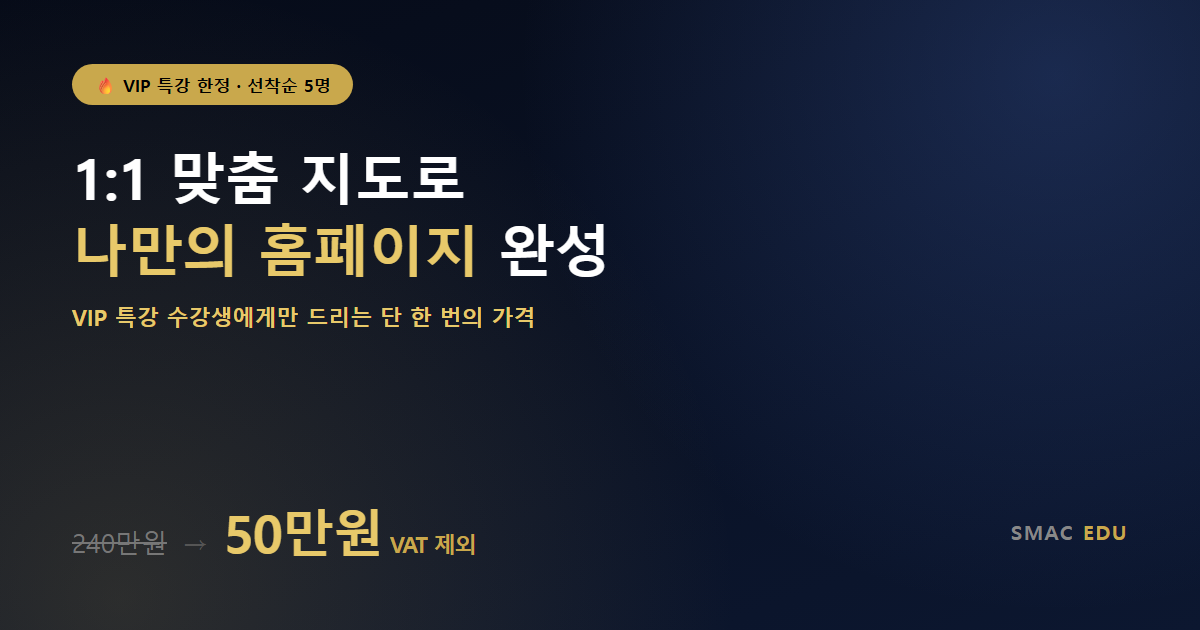
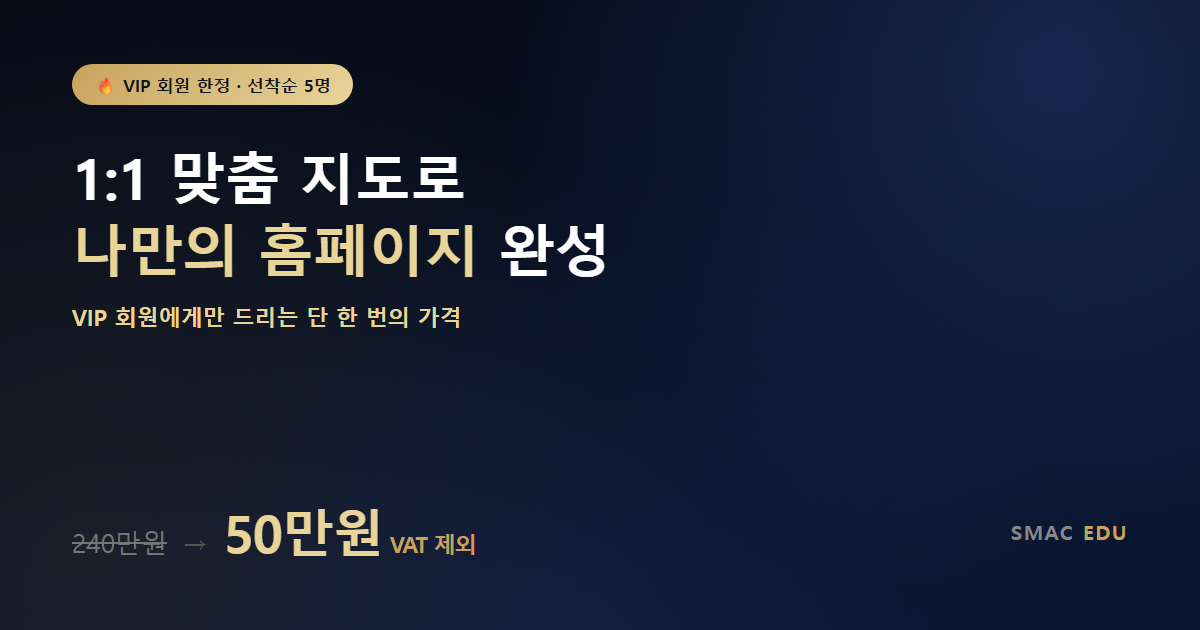
Polish VIP page: richer gold palette, VIP-membership framing, clean wraps
- Swap the bright gold for a more muted, antique gold tone (foil
  gradient on emphasized text) for a more premium feel.
- Change exclusivity framing from "VIP 특강 수강생" to "VIP 회원" across
  hero, notice bar, FAQ, and deadline section (and the OG banner).
- Add word-break: keep-all site-wide so Korean text never breaks
  mid-word, and rework the worry-card copy/icons (bordered circle
  badges instead of bare emoji) so each card reads as two clean lines.

diff --git a/vip-1on1-landing.html b/vip-1on1-landing.html
@@ -4,49 +4,53 @@
   <meta charset="UTF-8" />
   <meta name="viewport" content="width=device-width, initial-scale=1.0" />
   <title>VIP 1:1 지도 — 나만의 홈페이지 만들기 | SMAC EDU</title>
-  <meta name="description" content="VIP 특강 수강생 한정, 선착순 5명. 8시간 4회 세션 + 완성될 때까지 무제한 1:1 지도로 홈페이지·랜딩페이지 4개·업무 자동화·앱까지 완성합니다." />
+  <meta name="description" content="VIP 회원 한정, 선착순 5명. 8시간 4회 세션 + 완성될 때까지 무제한 1:1 지도로 홈페이지·랜딩페이지 4개·업무 자동화·앱까지 완성합니다." />
   <meta property="og:type" content="website" />
   <meta property="og:url" content="https://www.smacedu.kr/vip-1on1-landing" />
   <meta property="og:title" content="VIP 1:1 지도 — 나만의 홈페이지 만들기 | SMAC EDU" />
-  <meta property="og:description" content="VIP 특강 수강생 한정, 선착순 5명. 8시간 4회 세션 + 완성될 때까지 무제한 1:1 지도로 홈페이지·랜딩페이지 4개·업무 자동화·앱까지 완성합니다." />
+  <meta property="og:description" content="VIP 회원 한정, 선착순 5명. 8시간 4회 세션 + 완성될 때까지 무제한 1:1 지도로 홈페이지·랜딩페이지 4개·업무 자동화·앱까지 완성합니다." />
   <meta property="og:image" content="https://www.smacedu.kr/images/vip-1on1-og.png" />
   <meta property="og:image:width" content="1200" />
   <meta property="og:image:height" content="630" />
   <meta name="twitter:card" content="summary_large_image" />
   <meta name="twitter:title" content="VIP 1:1 지도 — 나만의 홈페이지 만들기 | SMAC EDU" />
-  <meta name="twitter:description" content="VIP 특강 수강생 한정, 선착순 5명. 1:1 맞춤 지도로 될 때까지 완성합니다." />
+  <meta name="twitter:description" content="VIP 회원 한정, 선착순 5명. 1:1 맞춤 지도로 될 때까지 완성합니다." />
   <meta name="twitter:image" content="https://www.smacedu.kr/images/vip-1on1-og.png" />
   <style>
     /* ─── Reset & Base ─────────────────────────────── */
     *, *::before, *::after { box-sizing: border-box; margin: 0; padding: 0; }
     :root {
-      --bg:       #060b18;
-      --bg2:      #0c1730;
-      --bg3:      #112048;
-      --border:   rgba(201,168,76,.18);
-      --gold:     #c9a84c;
-      --gold-lt:  #f0d384;
-      --text:     #eef1f7;
-      --muted:    #8d96ab;
-      --red:      #e0667a;
-      --radius:   14px;
+      --bg:        #050a16;
+      --bg2:       #0a1530;
+      --bg3:       #0e1c3e;
+      --border:    rgba(201,168,92,.16);
+      --gold-deep: #8a6d23;
+      --gold:      #c6a35c;
+      --gold-lt:   #e9d49a;
+      --text:      #eef1f7;
+      --muted:     #8d96ab;
+      --red:       #e0667a;
+      --radius:    14px;
     }
     html { scroll-behavior: smooth; }
     body {
       background:
-        radial-gradient(circle at 12% -5%, rgba(201,168,76,.12) 0%, transparent 42%),
-        radial-gradient(circle at 92% 8%, rgba(72,108,194,.18) 0%, transparent 45%),
-        linear-gradient(180deg, #060b18 0%, #0a1226 60%, #060b18 100%);
+        radial-gradient(circle at 14% -8%, rgba(201,168,92,.09) 0%, transparent 40%),
+        radial-gradient(circle at 90% 6%, rgba(58,92,180,.28) 0%, transparent 48%),
+        radial-gradient(circle at 50% 110%, rgba(40,70,150,.18) 0%, transparent 55%),
+        linear-gradient(180deg, #050a16 0%, #081230 55%, #050a16 100%);
       color: var(--text);
       font-family: 'Apple SD Gothic Neo', 'Noto Sans KR', sans-serif;
       line-height: 1.7;
       font-size: 16px;
+      word-break: keep-all;
+      overflow-wrap: break-word;
     }
     a { color: inherit; text-decoration: none; }
     img { max-width: 100%; border-radius: var(--radius); }
 
     /* ─── Utility ──────────────────────────────────── */
-    .top-bar { height: 3px; background: linear-gradient(90deg, transparent, var(--gold), var(--gold-lt), var(--gold), transparent); }
+    .top-bar { height: 3px; background: linear-gradient(90deg, transparent, var(--gold-deep), var(--gold-lt), var(--gold-deep), transparent); }
     .container { max-width: 860px; margin: 0 auto; padding: 0 24px; }
     .tag {
       display: inline-block;
@@ -55,16 +59,22 @@
       letter-spacing: .12em;
       text-transform: uppercase;
       color: var(--gold-lt);
-      border: 1px solid rgba(201,168,76,.5);
-      background: rgba(201,168,76,.08);
+      border: 1px solid rgba(201,168,92,.4);
+      background: rgba(201,168,92,.06);
       border-radius: 99px;
       padding: 5px 16px;
       margin-bottom: 20px;
     }
-    .gold { color: var(--gold-lt); }
+    .gold {
+      background: linear-gradient(135deg, var(--gold-deep) 0%, var(--gold-lt) 45%, var(--gold) 100%);
+      -webkit-background-clip: text;
+      -webkit-text-fill-color: transparent;
+      background-clip: text;
+      color: var(--gold-lt);
+    }
     .muted { color: var(--muted); }
     section { padding: 96px 0; border-bottom: 1px solid var(--border); }
-    h2 { font-size: clamp(1.7rem, 3.5vw, 2.4rem); font-weight: 800; line-height: 1.25; margin-bottom: 16px; }
+    h2 { font-size: clamp(1.7rem, 3.5vw, 2.4rem); font-weight: 800; line-height: 1.3; margin-bottom: 16px; }
     h3 { font-size: 1.1rem; font-weight: 700; margin-bottom: 8px; }
     p  { color: #aab2c4; }
 
@@ -91,7 +101,7 @@
       font-family: inherit;
       transition: transform .2s, box-shadow .2s;
     }
-    .nav-cta:hover { transform: translateY(-1px); box-shadow: 0 4px 18px rgba(201,168,76,.35); }
+    .nav-cta:hover { transform: translateY(-1px); box-shadow: 0 4px 18px rgba(201,168,92,.35); }
 
     /* ─── Hero ─────────────────────────────────────── */
     .hero {
@@ -103,8 +113,8 @@
       display: inline-flex; align-items: center; gap: 8px;
       font-size: 12px; font-weight: 700; letter-spacing: .06em;
       color: var(--gold-lt);
-      background: rgba(201,168,76,.1);
-      border: 1px solid rgba(201,168,76,.4);
+      background: rgba(201,168,92,.1);
+      border: 1px solid rgba(201,168,92,.4);
       border-radius: 99px;
       padding: 7px 20px;
       margin-bottom: 32px;
@@ -136,11 +146,11 @@
       cursor: pointer;
       font-family: inherit;
       transition: all .2s;
-      box-shadow: 0 0 36px rgba(201,168,76,.3);
+      box-shadow: 0 0 36px rgba(201,168,92,.3);
     }
     .btn-primary:hover {
       transform: translateY(-2px);
-      box-shadow: 0 6px 44px rgba(201,168,76,.45);
+      box-shadow: 0 6px 44px rgba(201,168,92,.45);
     }
     .hero-note { font-size: 13px; color: var(--gold-lt); font-weight: 600; }
 
@@ -169,14 +179,14 @@
       font-weight: 900;
       color: var(--gold-lt);
       letter-spacing: -.02em;
-      text-shadow: 0 0 24px rgba(201,168,76,.4);
+      text-shadow: 0 0 24px rgba(201,168,92,.4);
     }
     .price-vat { font-size: 11px; color: var(--muted); }
 
     /* ─── 수강생 전용 알림 ─────────────────────────── */
     .notice-bar {
-      background: rgba(201,168,76,.08);
-      border: 1px solid rgba(201,168,76,.3);
+      background: rgba(201,168,92,.08);
+      border: 1px solid rgba(201,168,92,.3);
       border-radius: var(--radius);
       padding: 18px 24px;
       display: flex; align-items: flex-start; gap: 14px;
@@ -200,9 +210,18 @@
       padding: 24px;
       transition: border-color .2s, transform .2s;
     }
-    .worry-card:hover { border-color: rgba(201,168,76,.4); transform: translateY(-3px); }
-    .worry-card .emoji { font-size: 1.5rem; margin-bottom: 12px; }
-    .worry-card p { font-size: .95rem; color: #c2c8da; margin: 0; line-height: 1.55; }
+    .worry-card:hover { border-color: rgba(201,168,92,.4); transform: translateY(-3px); }
+    .worry-card .emoji {
+      width: 44px; height: 44px;
+      display: flex; align-items: center; justify-content: center;
+      font-size: 1.2rem;
+      border-radius: 50%;
+      background: rgba(201,168,92,.1);
+      border: 1px solid rgba(201,168,92,.35);
+      margin-bottom: 16px;
+    }
+    .worry-card h3 { font-size: 1rem; }
+    .worry-card p { font-size: .92rem; color: #c2c8da; margin: 0; line-height: 1.6; }
 
     /* ─── 과정 섹션 ────────────────────────────────── */
     .program-grid {
@@ -230,13 +249,13 @@
     .program-card .tag-pill {
       display: inline-block;
       font-size: 11px;
-      background: rgba(201,168,76,.12);
+      background: rgba(201,168,92,.12);
       color: var(--gold-lt);
       border-radius: 6px;
       padding: 3px 10px;
       margin-top: 12px;
     }
-    .program-card.wide { grid-column: 1 / -1; border-color: rgba(201,168,76,.35); }
+    .program-card.wide { grid-column: 1 / -1; border-color: rgba(201,168,92,.35); }
 
     /* ─── 결과물 섹션 ──────────────────────────────── */
     .result-list {
@@ -271,8 +290,8 @@
       margin-top: 48px;
     }
     .why-card {
-      background: linear-gradient(135deg, rgba(201,168,76,.07), transparent 60%), var(--bg2);
-      border: 1px solid rgba(201,168,76,.3);
+      background: linear-gradient(135deg, rgba(201,168,92,.07), transparent 60%), var(--bg2);
+      border: 1px solid rgba(201,168,92,.3);
       border-radius: var(--radius);
       padding: 30px 32px;
       display: flex;
@@ -283,8 +302,8 @@
       flex-shrink: 0;
       width: 52px; height: 52px;
       border-radius: 50%;
-      background: rgba(201,168,76,.12);
-      border: 1px solid rgba(201,168,76,.4);
+      background: rgba(201,168,92,.12);
+      border: 1px solid rgba(201,168,92,.4);
       display: flex; align-items: center; justify-content: center;
       font-size: 1.5rem;
     }
@@ -361,12 +380,12 @@
 
     /* ─── 마감 섹션 ────────────────────────────────── */
     .deadline-box {
-      background: linear-gradient(160deg, rgba(201,168,76,.08), transparent 55%), var(--bg2);
-      border: 1px solid rgba(201,168,76,.4);
+      background: linear-gradient(160deg, rgba(201,168,92,.08), transparent 55%), var(--bg2);
+      border: 1px solid rgba(201,168,92,.4);
       border-radius: 18px;
       padding: 48px 40px;
       text-align: center;
-      box-shadow: 0 24px 60px rgba(0,0,0,.4), 0 0 50px rgba(201,168,76,.08);
+      box-shadow: 0 24px 60px rgba(0,0,0,.4), 0 0 50px rgba(201,168,92,.08);
     }
     .deadline-box h2 { margin-bottom: 12px; }
     .deadline-box .sub { color: #aab2c4; margin-bottom: 36px; font-size: .97rem; }
@@ -389,7 +408,7 @@
       font-weight: 900;
       color: var(--gold-lt);
       letter-spacing: -.03em;
-      text-shadow: 0 0 30px rgba(201,168,76,.4);
+      text-shadow: 0 0 30px rgba(201,168,92,.4);
     }
     .price-row .new-tag small {
       font-size: .55em;
@@ -438,13 +457,13 @@
     .modal-overlay.open { display: flex; }
     .modal {
       background: var(--bg3);
-      border: 1px solid rgba(201,168,76,.4);
+      border: 1px solid rgba(201,168,92,.4);
       border-radius: 20px;
       width: 100%;
       max-width: 440px;
       padding: 40px 36px;
       position: relative;
-      box-shadow: 0 32px 80px rgba(0,0,0,.7), 0 0 60px rgba(201,168,76,.15);
+      box-shadow: 0 32px 80px rgba(0,0,0,.7), 0 0 60px rgba(201,168,92,.15);
       animation: modalIn .25s ease;
     }
     @keyframes modalIn {
@@ -479,7 +498,7 @@
       font-family: inherit;
     }
     .form-group input::placeholder { color: #5a6178; }
-    .form-group input:focus { border-color: rgba(201,168,76,.6); }
+    .form-group input:focus { border-color: rgba(201,168,92,.6); }
     .form-checkbox label {
       display: flex;
       align-items: flex-start;
@@ -538,21 +557,21 @@
 
     <form id="applyForm" onsubmit="submitApply(event)" novalidate>
       <div class="form-group">
-        <label for="f-name">이름 <span style="color:#c9a84c">*</span></label>
+        <label for="f-name">이름 <span style="color:#c6a35c">*</span></label>
         <input id="f-name" name="name" type="text" placeholder="홍길동" required autocomplete="name" />
       </div>
       <div class="form-group">
-        <label for="f-email">이메일 <span style="color:#c9a84c">*</span></label>
+        <label for="f-email">이메일 <span style="color:#c6a35c">*</span></label>
         <input id="f-email" name="email" type="email" placeholder="[email redacted]" required autocomplete="email" />
       </div>
       <div class="form-group">
-        <label for="f-phone">연락처 <span style="color:#c9a84c">*</span></label>
+        <label for="f-phone">연락처 <span style="color:#c6a35c">*</span></label>
         <input id="f-phone" name="phone" type="tel" placeholder="[phone redacted]" required autocomplete="tel" />
       </div>
       <div class="form-group form-checkbox">
         <label for="f-consent">
           <input id="f-consent" type="checkbox" required />
-          개인정보는 신청 확인 및 일정 안내 목적으로만 사용됩니다. 동의합니다. <span style="color:#c9a84c">*</span>
+          개인정보는 신청 확인 및 일정 안내 목적으로만 사용됩니다. 동의합니다. <span style="color:#c6a35c">*</span>
         </label>
       </div>
       <button type="submit" class="btn-primary form-submit" id="submitBtn">✦ 신청 완료하기</button>
@@ -564,7 +583,7 @@
 <!-- ── HERO ────────────────────────────────────────── -->
 <section class="hero">
   <div class="container">
-    <div class="hero-eyebrow">✦ VIP 특강 수강생 한정 · 선착순 5명</div>
+    <div class="hero-eyebrow">✦ VIP 회원 한정 · 선착순 5명</div>
     <h1>
       직접 완성까지<br />
       <span class="gold">옆에서 함께</span>합니다
@@ -593,7 +612,7 @@
     <div class="notice-bar">
       <div class="notice-icon">🔒</div>
       <p>
-        이 페이지는 <strong>VIP 특강 수강생에게만</strong> 공개된 한정 오퍼이며, 단 <strong>선착순 5명</strong>만 모십니다.
+        이 페이지는 <strong>VIP 회원에게만</strong> 공개된 한정 오퍼이며, 단 <strong>선착순 5명</strong>만 모십니다.
         특강에서 나눈 내용을 바탕으로, 선생님이 <strong>처음부터 끝까지 1:1로 함께</strong> 완성합니다.
       </p>
     </div>
@@ -623,8 +642,8 @@
       </div>
       <div class="worry-card">
         <div class="emoji">🎯</div>
-        <h3>내 업무에 딱 맞게 하고 싶어요</h3>
-        <p>일반 강의 예제 말고<br />내 상황에 맞는 결과물이 필요해요</p>
+        <h3>내 업무에 딱 맞게<br />하고 싶어요</h3>
+        <p>일반 강의 예제 말고<br />내 결과물이 필요해요</p>
       </div>
     </div>
   </div>
@@ -773,7 +792,7 @@
       </div>
       <div class="faq-item">
         <div class="faq-q">제 수준이 따라갈 수 있을까요?</div>
-        <p class="faq-a">VIP 특강을 완주하셨다면 충분합니다. 코딩 지식은 필요 없습니다. 1:1이라 제 속도에 맞게 진행하며, 막히는 순간 바로 함께 해결합니다.</p>
+        <p class="faq-a">특강을 들어보신 분이라면 충분합니다. 코딩 지식은 필요 없습니다. 1:1이라 제 속도에 맞게 진행하며, 막히는 순간 바로 함께 해결합니다.</p>
       </div>
       <div class="faq-item">
         <div class="faq-q">일정이 안 맞으면 어떻게 하나요?</div>
@@ -792,7 +811,7 @@
   <div class="container">
     <div class="deadline-box">
       <div class="tag">🔥 선착순 5명 · VIP 얼리버드 마감 임박</div>
-      <h2>VIP 특강 수강생에게만<br /><span class="gold">드리는 단 한 번의 가격</span></h2>
+      <h2>VIP 회원에게만<br /><span class="gold">드리는 단 한 번의 가격</span></h2>
       <p class="sub">마감되면 정상가 240만원으로 돌아갑니다. 지금이 마지막 기회입니다.</p>
 
       <div class="price-row">